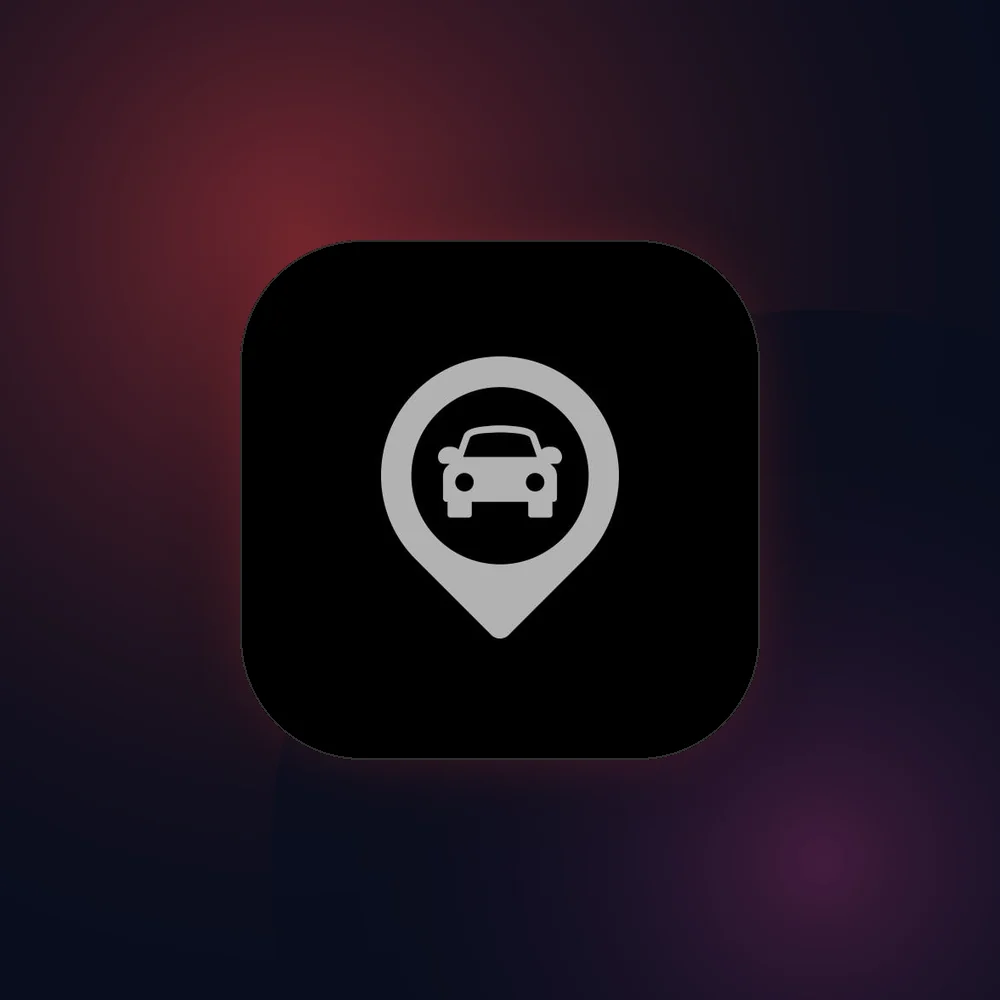
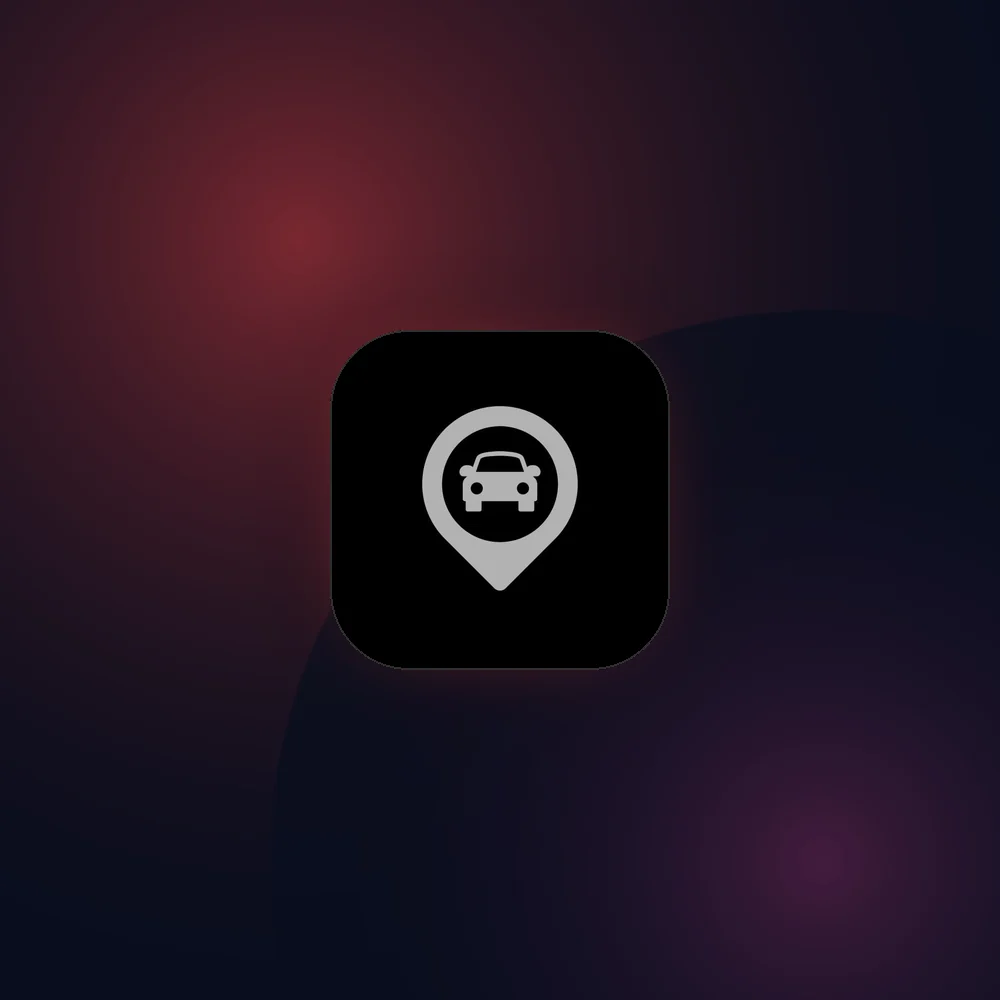
fix(covers): shrink the mark in the artwork instead of padding it in CSS
The previous commit padded the cover with object-contain to make the mark
smaller. Seeing it rendered, that was the wrong layer: each cover carries its
own background gradient, designed to run edge to edge, so contain left the
whole thing sitting on the card as a hard-edged square with dead panel around
it. It read as an image pasted on rather than as part of the surface, and the
feather gradients that blend the visual into the copy had nothing to blend.

Sized down in the generator instead — tile_px from 52% to 34% of the canvas —
and the card goes back to object-cover with no padding, so the gradient
reaches the panel edges again.

Same result for the mark, without the seam:

  rendered tile   ~266px -> 174px  (46% of the panel's short side)
  cover edges     visible square   -> full bleed

Checked the crop geometry rather than eyeballing it, since object-cover on a
square source into a landscape panel discards the top and bottom. Verified at
all three call sites — the tile clears the crop window with room at each:

  home stack   511x376  crop 13.2-86.8%   tile 174px
  /projects    348x243  crop 15.0-85.0%   tile 118px
  mobile       341x200  crop 20.7-79.3%   tile 116px

(the tile always spans 33-67% of the canvas)

README also had the regeneration command wrong — the script takes an icons
directory and an output directory as arguments.

Changed region(s): [[0.217, 0.217, 0.775, 0.775]]

diff --git a/src/Components/StackingProjectCards.jsx b/src/Components/StackingProjectCards.jsx
@@ -42,21 +42,18 @@ const ProjectCard = ({ project }) => {
                a now auto-height card, it fell back to its intrinsic aspect
                ratio and drove the card ~180px taller than its copy needed.
 
-               object-contain with a little padding, not object-cover. The
-               covers are 1000x1000 squares whose rounded tile is 52% of the
-               canvas — the margin around it is part of the artwork. Cover
-               scaled to the panel's *width* and cropped that margin off the
-               top and bottom, which is why the mark looked oversized and
-               crowded. Contain restores it; the small padding just tops it up.
-               Padding applies to the image's content box, so object-fit
-               honours it. Net effect: the tile renders ~170px instead of
-               ~266px, centred in a 511x376 panel. */
+               object-cover, so the cover's gradient runs to the panel edges
+               and the feather gradients below can blend it into the copy. The
+               mark is sized down in scripts/make-covers.py instead of being
+               padded here: object-contain leaves the cover's own background
+               visible as a hard-edged square sitting on the card, which reads
+               as an image pasted on rather than part of the surface. */
             <img
               src={project.image}
               alt={project.name}
               loading="lazy"
               decoding="async"
-              className="absolute inset-0 w-full h-full object-contain p-4 md:p-6"
+              className="absolute inset-0 w-full h-full object-cover"
             />
           ) : (
             <span className="text-5xl">💻</span>

diff --git a/scripts/make-covers.py b/scripts/make-covers.py
@@ -244,7 +244,17 @@ for slug, filename, accent_a, accent_b in PROJECTS:
     if filename == "dockerNodeAppIcon.png":
         icon = strip_checkerboard(icon)
 
-    tile_px = int(SIZE * 0.52)
+    # 34% of the canvas, not 52%. The card renders these full-bleed and crops
+    # the square to a landscape panel, so the mark was arriving oversized and
+    # crowding the panel edges. Shrinking it here rather than padding it in CSS
+    # keeps the background full-bleed — an object-contain fallback turned the
+    # cover into a visible square pasted onto the card.
+    #
+    # Geometry check: at a 511x376 panel, object-cover scales by width (0.511)
+    # and keeps the middle 73.6% of the height — y from 13.2% to 86.8%. A 34%
+    # tile centred spans 33% to 67%, so it clears the crop comfortably at both
+    # the desktop and the 341x200 mobile panel. It renders ~174px.
+    tile_px = int(SIZE * 0.34)
     tile = make_tile(icon, tile_px, accent_a)
     pos = ((SIZE - tile_px) // 2, (SIZE - tile_px) // 2)
 

diff --git a/README.md b/README.md
@@ -155,8 +155,12 @@ it. Luminance spread across the six covers: 185 → 96.
 Rerun after changing an icon:
 
 ```bash
-python3 scripts/make-covers.py
+python3 scripts/make-covers.py src/assets/icons src/assets/covers
 ```
+
+Requires Pillow. The mark is sized by `tile_px` in that script rather than
+padded in CSS — the card renders the cover full-bleed, so padding it at the
+render layer leaves the cover's own background showing as a hard-edged square.
 
 ## Stack
 
